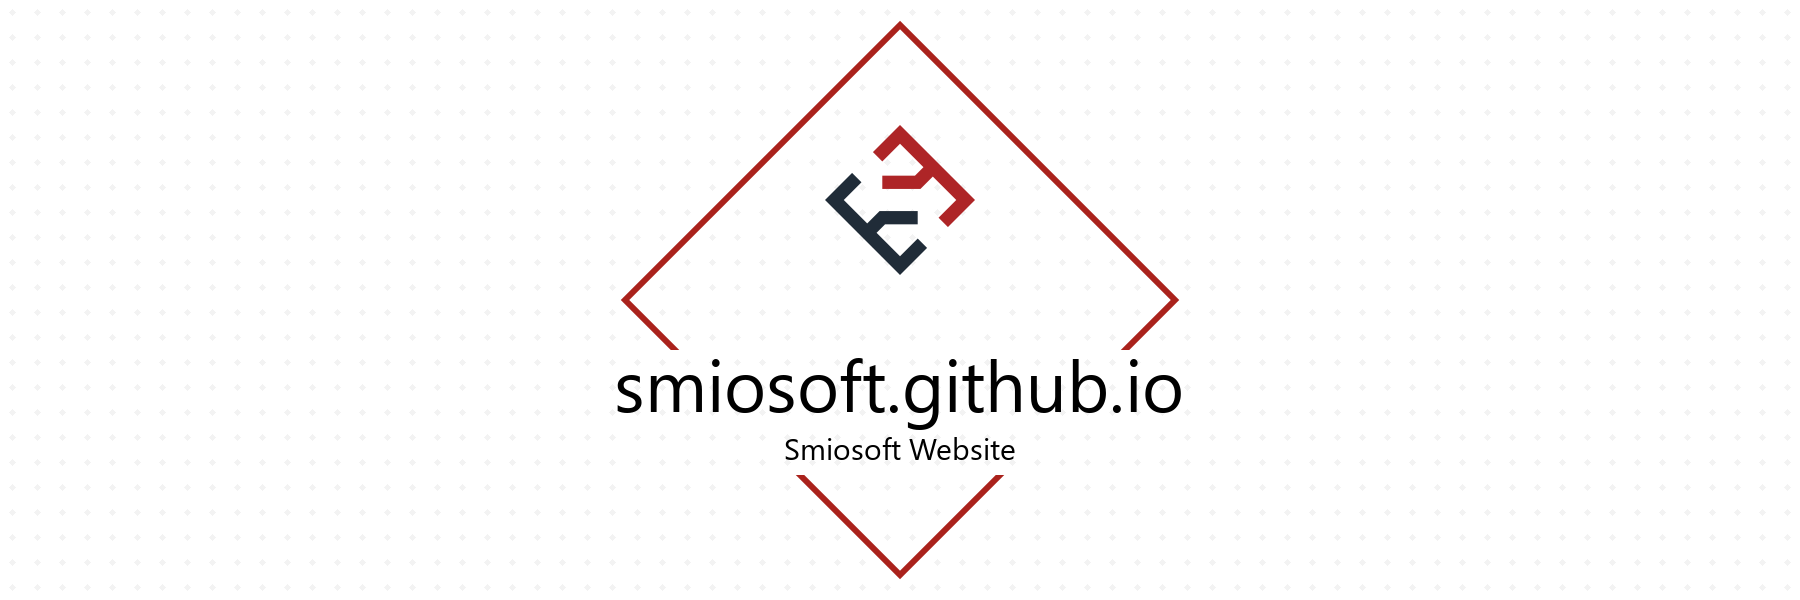
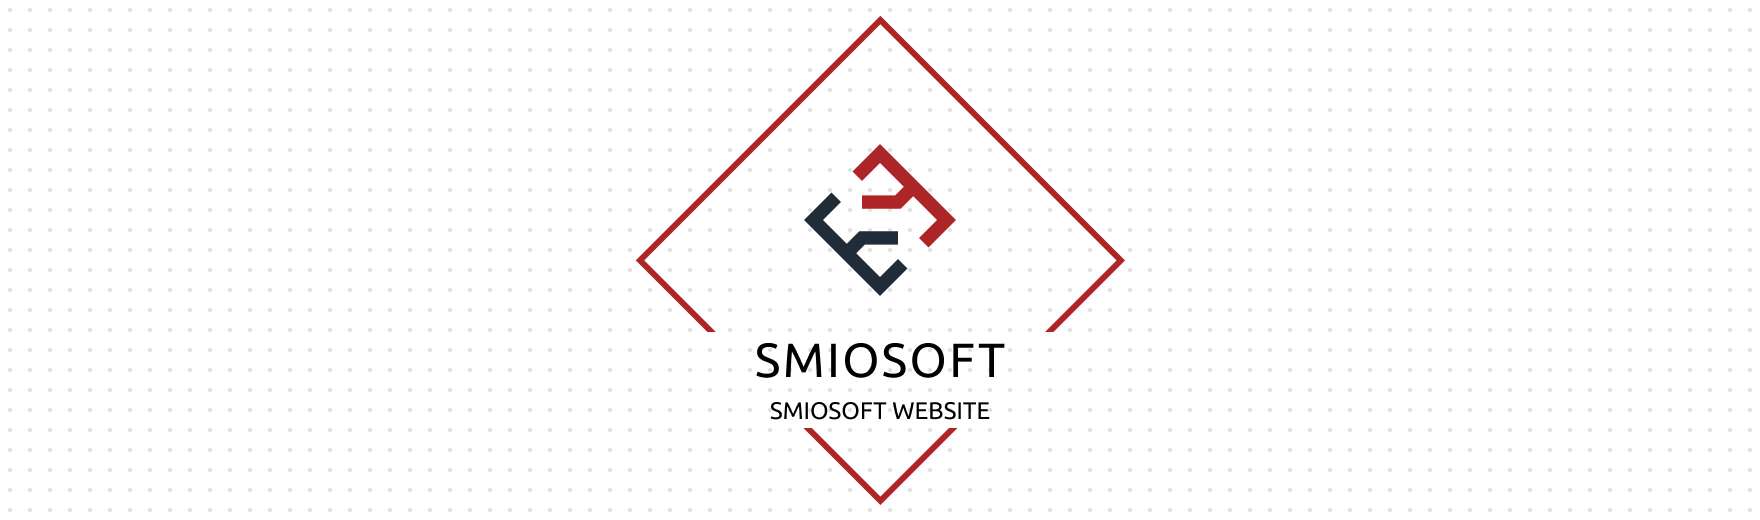
Docs (#3)
* Updated project-title image

* Updated README

* Created community docs

diff --git a/docs/CODE_OF_CONDUCT.md b/docs/CODE_OF_CONDUCT.md
@@ -1,0 +1,76 @@
+# Contributor Covenant Code of Conduct
+
+## Our Pledge
+
+In the interest of fostering an open and welcoming environment, we as
+contributors and maintainers pledge to making participation in our project and
+our community a harassment-free experience for everyone, regardless of age, body
+size, disability, ethnicity, sex characteristics, gender identity and expression,
+level of experience, education, socio-economic status, nationality, personal
+appearance, race, religion, or sexual identity and orientation.
+
+## Our Standards
+
+Examples of behavior that contributes to creating a positive environment
+include:
+
+* Using welcoming and inclusive language
+* Being respectful of differing viewpoints and experiences
+* Gracefully accepting constructive criticism
+* Focusing on what is best for the community
+* Showing empathy towards other community members
+
+Examples of unacceptable behavior by participants include:
+
+* The use of sexualized language or imagery and unwelcome sexual attention or
+ advances
+* Trolling, insulting/derogatory comments, and personal or political attacks
+* Public or private harassment
+* Publishing others' private information, such as a physical or electronic
+ address, without explicit permission
+* Other conduct which could reasonably be considered inappropriate in a
+ professional setting
+
+## Our Responsibilities
+
+Project maintainers are responsible for clarifying the standards of acceptable
+behavior and are expected to take appropriate and fair corrective action in
+response to any instances of unacceptable behavior.
+
+Project maintainers have the right and responsibility to remove, edit, or
+reject comments, commits, code, wiki edits, issues, and other contributions
+that are not aligned to this Code of Conduct, or to ban temporarily or
+permanently any contributor for other behaviors that they deem inappropriate,
+threatening, offensive, or harmful.
+
+## Scope
+
+This Code of Conduct applies both within project spaces and in public spaces
+when an individual is representing the project or its community. Examples of
+representing a project or community include using an official project e-mail
+address, posting via an official social media account, or acting as an appointed
+representative at an online or offline event. Representation of a project may be
+further defined and clarified by project maintainers.
+
+## Enforcement
+
+Instances of abusive, harassing, or otherwise unacceptable behavior may be
+reported by contacting the project team lead at nick.smirnoff@live.co.uk. All
+complaints will be reviewed and investigated and will result in a response that
+is deemed necessary and appropriate to the circumstances. The project team is
+obligated to maintain confidentiality with regard to the reporter of an incident.
+Further details of specific enforcement policies may be posted separately.
+
+Project maintainers who do not follow or enforce the Code of Conduct in good
+faith may face temporary or permanent repercussions as determined by other
+members of the project's leadership.
+
+## Attribution
+
+This Code of Conduct is adapted from the [Contributor Covenant][homepage], version 1.4,
+available at https://www.contributor-covenant.org/version/1/4/code-of-conduct.html
+
+[homepage]: https://www.contributor-covenant.org
+
+For answers to common questions about this code of conduct, see
+https://www.contributor-covenant.org/faq

diff --git a/docs/CONTRIBUTING.md b/docs/CONTRIBUTING.md
@@ -1,0 +1,15 @@
+# Contributing to Assets
+
+Pull requests are welcome. For major changes, please open an issue first to discuss what you would like to change.
+
+## Create a Pull Request
+
+We use [Github Flow](https://guides.github.com/introduction/flow/index.html), so all code changes will happen through pull requests; they are the best way to propose changes to the codebase.
+
+1. Fork the repo and create your branch from `master`.
+2. Update the documentation.
+3. Create that pull request!
+
+## Any contributions you make will be under the MIT Software License
+
+In short, when you submit code changes, your submissions are understood to be under the same [MIT License](http://choosealicense.com/licenses/mit/) that covers the project. Feel free to contact the maintainers if that's a concern.

diff --git a/README.md b/README.md
@@ -1,5 +1,14 @@
-![smiosoft.github.io](./docs/.assets/project-title.png)
+# Smiosoft
 
----
+[![Build Status](https://dev.azure.com/smiosoft/smiosoft.github.io/_apis/build/status/smiosoft.github.io-CI?branchName=master-react)](https://dev.azure.com/smiosoft/smiosoft.github.io/_build/latest?definitionId=1&branchName=master-react)
 
 _Smiosoft website built with ASP.NET Core and React._
+
+![Smiosoft](./docs/.assets/project-title.png)
+
+## Getting Started
+
+### Prerequisites
+
+- [.NET Core](https://dotnet.microsoft.com/download/dotnet-core/)
+- [Node.js](https://nodejs.org/en/download/)

diff --git a/docs/PULL_REQUEST_TEMPLATE.md b/docs/PULL_REQUEST_TEMPLATE.md
@@ -1,0 +1,7 @@
+## Changes
+
+<!--- Provide a general summary of your changes -->
+
+## Screenshots
+
+<!--- If applicable, Provide screenshots or a short gif of the change -->
